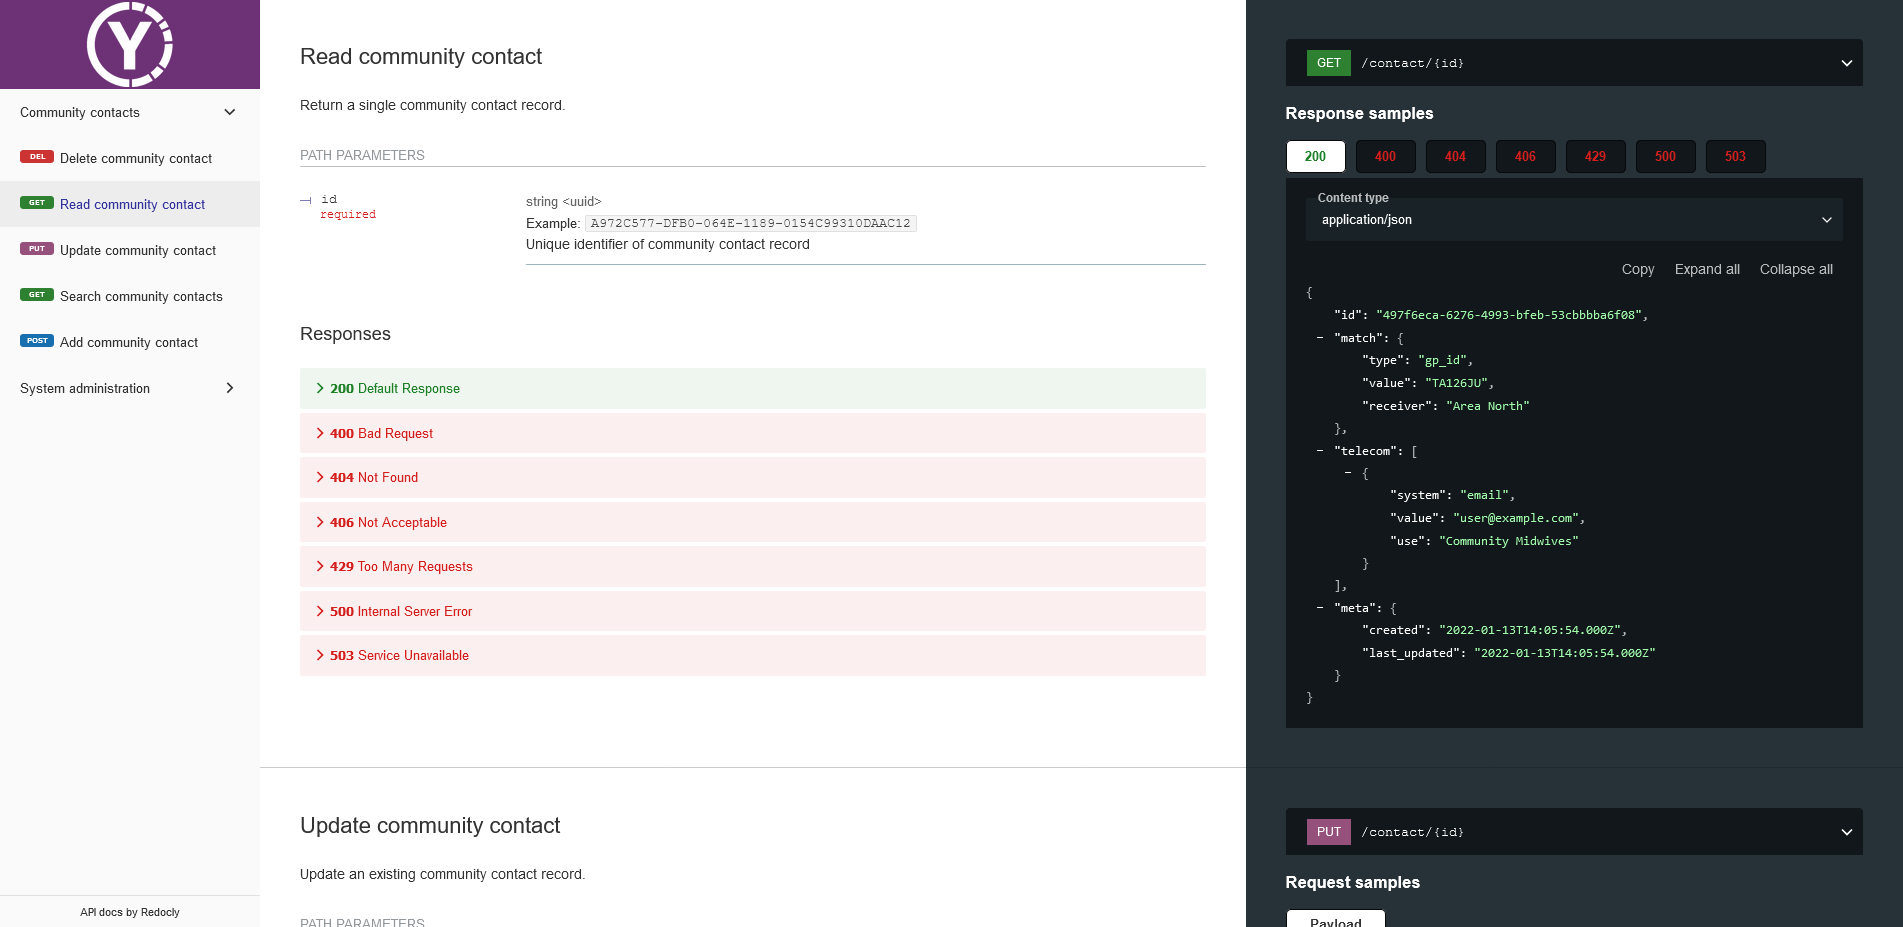
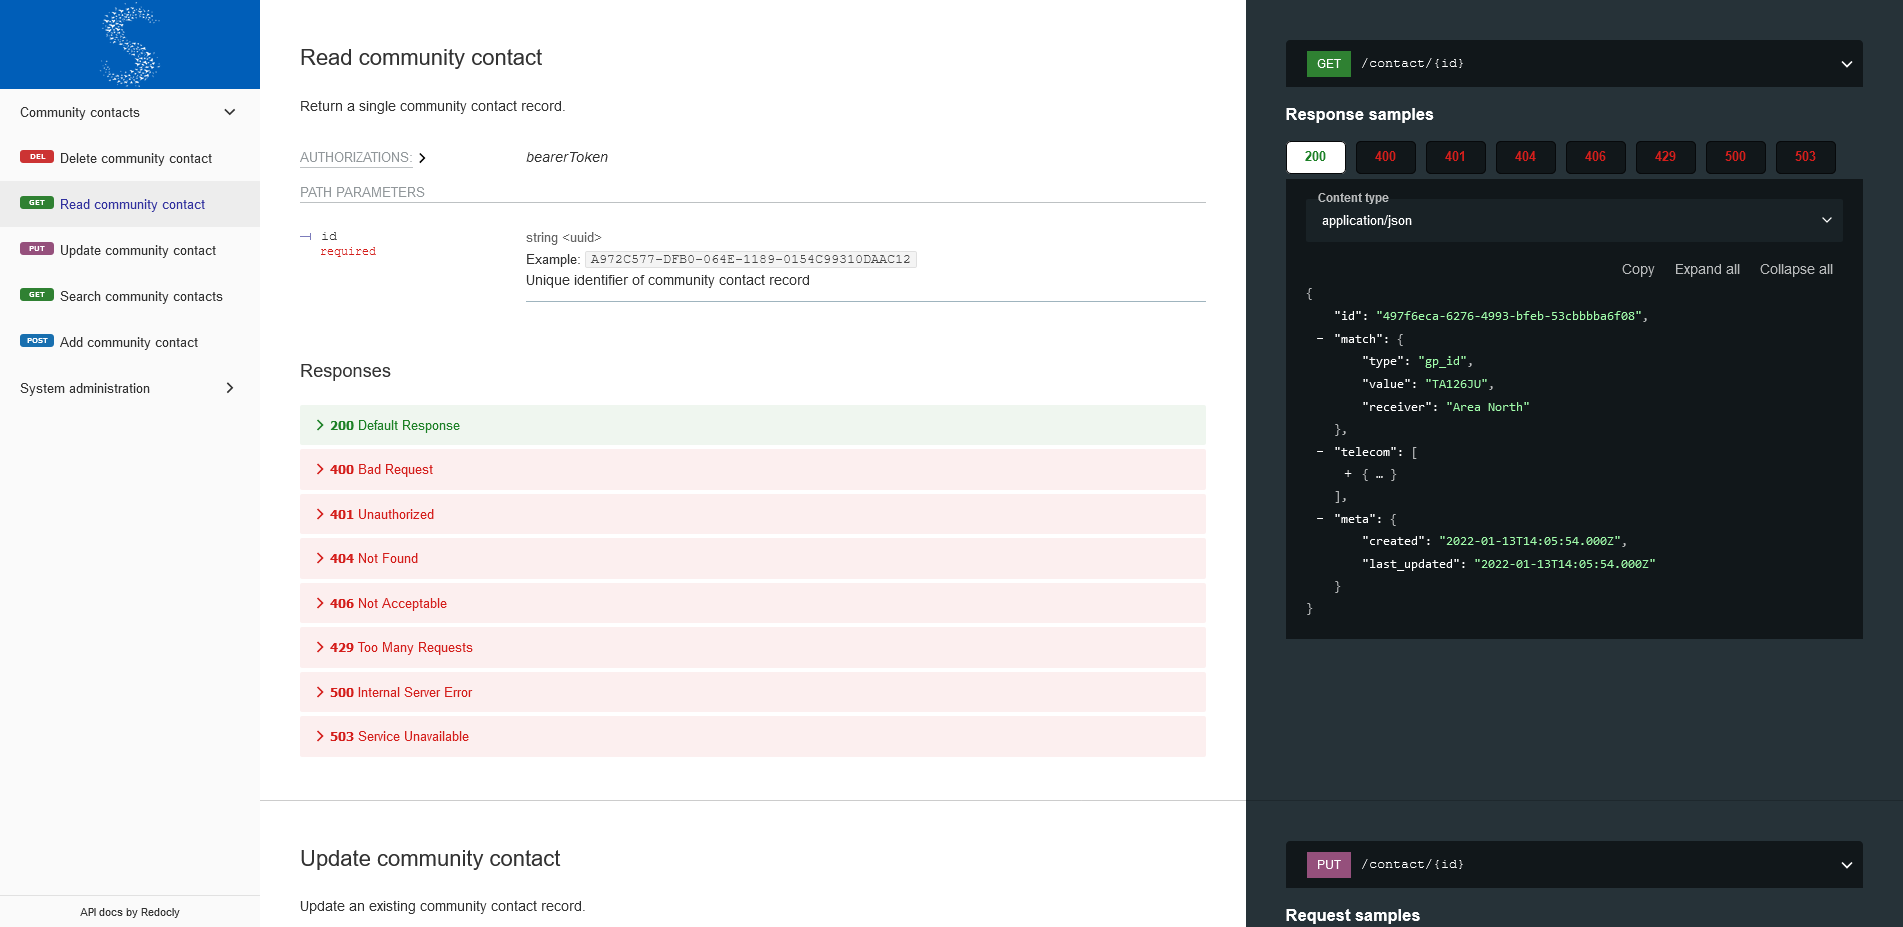
chore: replace ydh nhsft branding and links with somerset nhsft (#692)
* test: replace ydh.nhs.uk domain

* chore: replace ydh nhsft branding and links with somerset nhsft

diff --git a/src/server.test.js b/src/server.test.js
@@ -664,7 +664,7 @@ describe("Server deployment", () => {
 					},
 					request: {
 						headers: {
-							origin: "https://notreal.ydh.nhs.uk",
+							origin: "https://notreal.somersetft.nhs.uk",
 						},
 					},
 					expected: {
@@ -673,12 +673,12 @@ describe("Server deployment", () => {
 								json: {
 									...expResHeadersJson,
 									"access-control-allow-origin":
-										"https://notreal.ydh.nhs.uk",
+										"https://notreal.somersetft.nhs.uk",
 								},
 								text: {
 									...expResHeadersText,
 									"access-control-allow-origin":
-										"https://notreal.ydh.nhs.uk",
+										"https://notreal.somersetft.nhs.uk",
 								},
 							},
 						},
@@ -687,11 +687,11 @@ describe("Server deployment", () => {
 				{
 					testName: "CORS enabled and set to string",
 					corsEnvVariables: {
-						CORS_ORIGIN: "https://notreal.ydh.nhs.uk",
+						CORS_ORIGIN: "https://notreal.somersetft.nhs.uk",
 					},
 					request: {
 						headers: {
-							origin: "https://notreal.ydh.nhs.uk",
+							origin: "https://notreal.somersetft.nhs.uk",
 						},
 					},
 					expected: {
@@ -700,12 +700,12 @@ describe("Server deployment", () => {
 								json: {
 									...expResHeadersJson,
 									"access-control-allow-origin":
-										"https://notreal.ydh.nhs.uk",
+										"https://notreal.somersetft.nhs.uk",
 								},
 								text: {
 									...expResHeadersText,
 									"access-control-allow-origin":
-										"https://notreal.ydh.nhs.uk",
+										"https://notreal.somersetft.nhs.uk",
 								},
 							},
 						},
@@ -715,13 +715,13 @@ describe("Server deployment", () => {
 					testName: "CORS enabled and set to array of strings",
 					corsEnvVariables: {
 						CORS_ORIGIN: [
-							"https://notreal.ydh.nhs.uk",
+							"https://notreal.somersetft.nhs.uk",
 							"https://notreal.sft.nhs.uk",
 						],
 					},
 					request: {
 						headers: {
-							origin: "https://notreal.ydh.nhs.uk",
+							origin: "https://notreal.somersetft.nhs.uk",
 						},
 					},
 					expected: {
@@ -730,12 +730,12 @@ describe("Server deployment", () => {
 								json: {
 									...expResHeadersJson,
 									"access-control-allow-origin":
-										"https://notreal.ydh.nhs.uk",
+										"https://notreal.somersetft.nhs.uk",
 								},
 								text: {
 									...expResHeadersText,
 									"access-control-allow-origin":
-										"https://notreal.ydh.nhs.uk",
+										"https://notreal.somersetft.nhs.uk",
 								},
 							},
 						},
@@ -748,7 +748,7 @@ describe("Server deployment", () => {
 					},
 					request: {
 						headers: {
-							origin: "https://notreal.ydh.nhs.uk",
+							origin: "https://notreal.somersetft.nhs.uk",
 						},
 					},
 					expected: {

diff --git a/src/config/index.js b/src/config/index.js
@@ -232,7 +232,7 @@ async function getConfig() {
 				info: {
 					title: "Community Contacts API",
 					description:
-						'<a href="https://yeovilhospital.co.uk/">Yeovil District Hospital NHSFT</a>\'s Community Contacts RESTful API, a Node.js application using the <a href="https://fastify.io/">Fastify web framework</a>, built to support CRUD (Create, Read, Update, and Delete) functionality of community midwife, health visitor, and school nurse team email addresses in YDH\'s catchment area.',
+						'<a href="https://somersetft.nhs.uk/yeovilhospital/">Yeovil Hospital</a>\'s Community Contacts RESTful API, a Node.js application using the <a href="https://fastify.io/">Fastify web framework</a>, built to support CRUD (Create, Read, Update, and Delete) functionality of community midwife, health visitor, and school nurse team email addresses in Yeovil Hospital\'s catchment area.',
 					contact: {
 						name: "Author",
 						email: "frazer.smith@somersetft.nhs.uk",
@@ -244,10 +244,9 @@ async function getConfig() {
 					version,
 					// Redoc specific extension to support loading image in docs
 					"x-logo": {
-						url: "/public/images/ydh-y-logo-transparent-background-wide-canvas.png",
-						backgroundColor: "#6D3176",
-						altText:
-							"Yeovil District Hospital NHS Foundation Trust logo",
+						url: "/public/images/sft-s-logo-transparent-background-wide-canvas.png",
+						backgroundColor: "#005EB8",
+						altText: "Somerset NHS Foundation Trust Logo",
 					},
 				},
 				// Components object populated by shared schemas at launch

diff --git a/src/config/config.test.js b/src/config/config.test.js
@@ -366,22 +366,22 @@ describe("Configuration", () => {
 			testName: "CORS origin set to comma-delimited string value",
 			envVariables: {
 				CORS_ORIGIN:
-					"https://test1.ydh.nhs.uk, https://test2.ydh.nhs.uk",
+					"https://test1.somersetft.nhs.uk, https://test2.somersetft.nhs.uk",
 			},
 			expected: {
 				origin: expect.arrayContaining([
-					"https://test1.ydh.nhs.uk",
-					"https://test2.ydh.nhs.uk",
+					"https://test1.somersetft.nhs.uk",
+					"https://test2.somersetft.nhs.uk",
 				]),
 			},
 		},
 		{
 			testName: "CORS origin set to string value",
 			envVariables: {
-				CORS_ORIGIN: "https://ydh.nhs.uk",
+				CORS_ORIGIN: "https://somersetft.nhs.uk",
 			},
 			expected: {
-				origin: "https://ydh.nhs.uk",
+				origin: "https://somersetft.nhs.uk",
 			},
 		},
 	])(

diff --git a/src/routes/docs/index.html b/src/routes/docs/index.html
@@ -4,7 +4,7 @@
 		<meta charset="utf-8" />
 		<meta
 			name="description"
-			content="Reference documentation and OpenAPI definitions for Yeovil District Hospital NHSFT's Community Contacts API." />
+			content="Reference documentation and OpenAPI definitions for Yeovil Hospital's Community Contacts API." />
 		<meta name="author" content="Frazer Smith, Solutions Development" />
 		<meta name="viewport" content="width=device-width, initial-scale=1" />
 

diff --git a/README.md b/README.md
@@ -1,19 +1,19 @@
-<a href="https://yeovilhospital.co.uk/">
-	<img alttext="Yeovil District Hospital logo" src="https://github.com/Fdawgs/ydh-logos/raw/HEAD/images/ydh-full-logo-transparent-background.svg" width="480" />
+<a href="https://somersetft.nhs.uk/yeovilhospital/">
+	<img alttext="Somerset NHSFT logo" src="https://github.com/TauntonandSomersetNHSTrust/sft-logos/raw/HEAD/images/sft-nhsft-logo-left-aligned-transparent-background.png" width="480" />
 </a>
 
-# Yeovil District Hospital NHS Foundation Trust - Community Contacts RESTful CRUD API
+# Yeovil Hospital - Community Contacts RESTful CRUD API
 
 [![GitHub Release](https://img.shields.io/github/release/Fdawgs/ydh-community-contacts-api.svg)](https://github.com/Fdawgs/ydh-community-contacts-api/releases/latest/)
 ![Build Status](https://github.com/Fdawgs/ydh-community-contacts-api/workflows/CI/badge.svg?branch=main)
 [![Coverage Status](https://coveralls.io/repos/github/Fdawgs/ydh-community-contacts-api/badge.svg?branch=main)](https://coveralls.io/github/Fdawgs/ydh-community-contacts-api?branch=main)
 [![code style: prettier](https://img.shields.io/badge/code_style-prettier-ff69b4.svg?style=flat)](https://github.com/prettier/prettier)
 
-> Yeovil District Hospital NHSFT's RESTful CRUD API for community team contact details
+> Yeovil Hospital's RESTful CRUD API for community team contact details
 
 ## Overview
 
-This is [Yeovil District Hospital NHSFT](https://yeovilhospital.co.uk/)'s Community Contacts RESTful API, a Node.js application using the [Fastify](https://fastify.io/) web framework, built to support CRUD (Create, Read, Update, and Delete) functionality of community midwife, health visitor, and school nurse team email addresses in YDH's catchment area.
+This is [Yeovil Hospital](https://somersetft.nhs.uk/yeovilhospital/)'s Community Contacts RESTful API, a Node.js application using the [Fastify](https://fastify.io/) web framework, built to support CRUD (Create, Read, Update, and Delete) functionality of community midwife, health visitor, and school nurse team email addresses in Yeovil Hospital's catchment area.
 
 This was built for use by interface engine channels/workflows that automatically dispatch maternity and paediatric discharge summaries via encrypted email to their respective community teams, based on a patient’s postcode, school code, or GP practice code.
 
